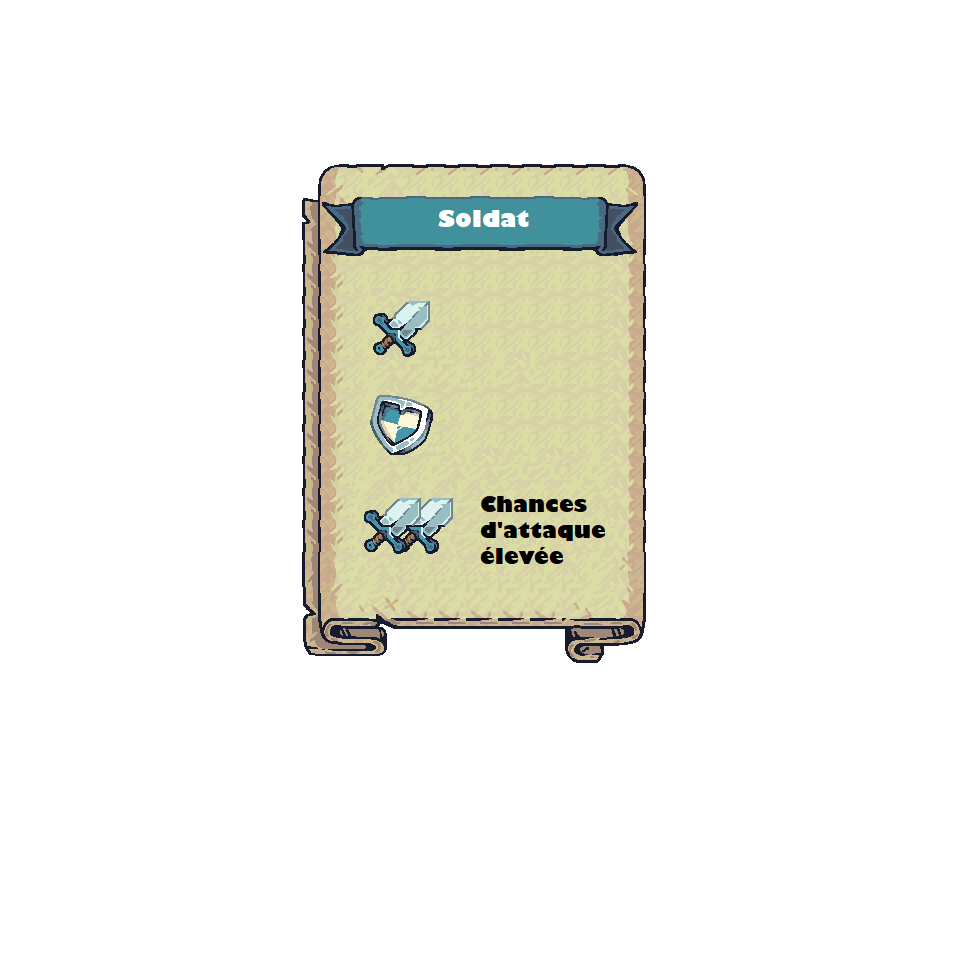
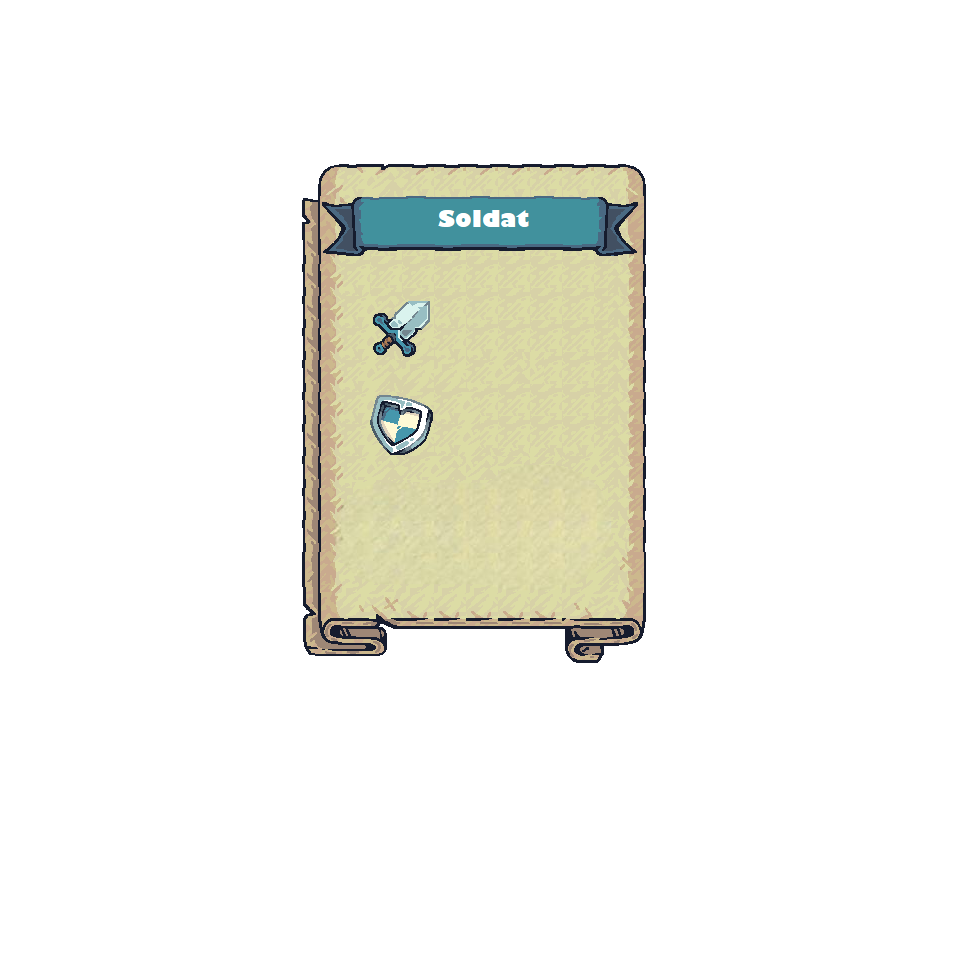
1

Changed region(s): [[0.5, 0.5, 0.625, 0.5938], [0.375, 0.5, 0.4688, 0.5938]]

diff --git a/ai/ai_player.js b/ai/ai_player.js
@@ -41,7 +41,7 @@ class MinimaxEngine {
     // 🔄 Iterative Deepening avec cutoff temporel
     while (depth <= CONFIG.MAX_DEPTH) {
       const timeElapsed = performance.now() - this.startTime;
-      if (timeElapsed > CONFIG.TIME_LIMIT_MS * 0.8) break;
+      if (timeElapsed > CONFIG.TIME_LIMIT_MS ) break;
 
       const result = this._alphaBeta(depth, -Infinity, Infinity, true, this.pid);
 
@@ -55,7 +55,6 @@ class MinimaxEngine {
       depth++;
     }
 
-    console.log(`[AI-Hard] Depth:${depth - 1}, Nodes:${this.nodesEvaluated}, Time:${(performance.now() - this.startTime).toFixed(0)}ms`);
     return bestPlan;
   }
 
@@ -346,11 +345,6 @@ class MinimaxEngine {
     game.cellOwnership = new Map(snapshot.cellOwnership);
   }
 
-  /**
-   * Remplace calculateWinProbability() de base.js
-   * P(d6 + atk > d6 + def) — calcul exact
-   * @private
-   */
   _winProbability(atk, def) {
     let wins = 0;
     for (let a = 1; a <= 6; a++)